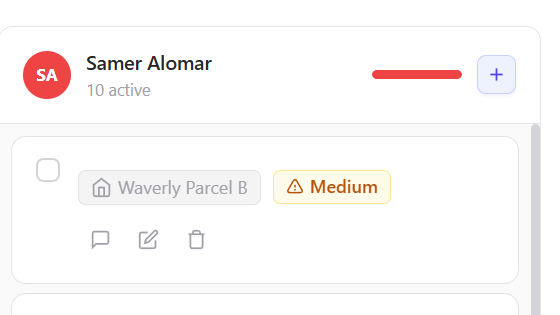
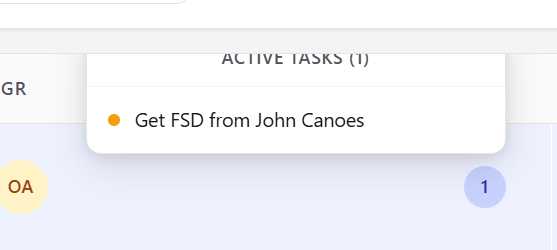
display tasks in projects list

diff --git a/src/components/ProjectsPageClient.tsx b/src/components/ProjectsPageClient.tsx
@@ -1,6 +1,7 @@
 "use client"
 
 import { useState, useMemo, useEffect, useRef, useCallback } from "react"
+import { createPortal } from "react-dom"
 import Link from "next/link"
 import { useRouter } from "next/navigation"
 import { setProjectArchivedAction } from "@/actions/projects"
@@ -24,6 +25,7 @@ interface Project {
   coFileNumbers: string
   dldReviewer: string
   userId: number
+  activeTasks?: { id: number; title: string; urgency: string | null }[]
 }
 
 interface User {
@@ -291,8 +293,8 @@ export function ProjectsPageClient({ projects, users, currentUser }: ProjectsPag
                   </span>
                 )}
               </th>
-              <th 
-                className="sortable-header" 
+              <th
+                className="sortable-header"
                 onClick={() => handleSort('milestone')}
                 style={{ cursor: 'pointer', userSelect: 'none' }}
               >
@@ -303,6 +305,7 @@ export function ProjectsPageClient({ projects, users, currentUser }: ProjectsPag
                   </span>
                 )}
               </th>
+              <th>TASKS</th>
               <th>OVERVIEW</th>
             </tr>
           </thead>
@@ -600,6 +603,7 @@ function ProjectRow({
           )
         })()}
       </td>
+      <TasksCell project={project} slideStyle={slideStyle} isDraggingRef={isDraggingRef} />
       <td className="comments row-slideable" style={slideStyle}>
         <div
           className={`archive-reveal-indicator${isArchiveReady ? " archive-reveal-ready" : ""}`}
@@ -618,5 +622,74 @@ function ProjectRow({
         />
       </td>
     </tr>
+  )
+}
+
+function TasksCell({
+  project,
+  slideStyle,
+  isDraggingRef,
+}: {
+  project: Project
+  slideStyle: React.CSSProperties
+  isDraggingRef: React.RefObject<boolean>
+}) {
+  const pillRef = useRef<HTMLAnchorElement>(null)
+  const [popover, setPopover] = useState<{ top: number; left: number } | null>(null)
+
+  const showPopover = useCallback(() => {
+    const el = pillRef.current
+    if (!el) return
+    const rect = el.getBoundingClientRect()
+    setPopover({ top: rect.top, left: rect.left + rect.width / 2 })
+  }, [])
+
+  const hidePopover = useCallback(() => setPopover(null), [])
+
+  const tasks = project.activeTasks
+  if (!tasks || tasks.length === 0) {
+    return (
+      <td className="active-tasks row-slideable" style={slideStyle}>
+        <span className="active-task-count-zero">0</span>
+      </td>
+    )
+  }
+
+  return (
+    <td className="active-tasks row-slideable" style={slideStyle}>
+      <div
+        className="active-tasks-wrapper"
+        onMouseEnter={showPopover}
+        onMouseLeave={hidePopover}
+      >
+        <Link
+          ref={pillRef}
+          href={`/projects/${project.id}#tasks`}
+          className="active-task-count"
+          onClick={(e) => isDraggingRef.current && e.preventDefault()}
+        >
+          {tasks.length}
+        </Link>
+        {popover && createPortal(
+          <div
+            className="active-tasks-popover"
+            style={{ top: popover.top, left: popover.left }}
+          >
+            <div className="active-tasks-popover-header">
+              Active tasks ({tasks.length})
+            </div>
+            <ul className="active-tasks-popover-list">
+              {tasks.map(task => (
+                <li key={task.id} className="active-tasks-popover-item">
+                  <span className={`active-tasks-popover-urgency ${task.urgency?.toLowerCase() || 'medium'}`} />
+                  <span className="active-tasks-popover-title">{task.title}</span>
+                </li>
+              ))}
+            </ul>
+          </div>,
+          document.body
+        )}
+      </div>
+    </td>
   )
 }

diff --git a/src/app/styles/projects.css b/src/app/styles/projects.css
@@ -233,6 +233,103 @@
   font-size: var(--font-size-xs);
 }
 
+/* Active tasks cell */
+.active-tasks {
+  text-align: center;
+  vertical-align: middle;
+  min-width: 50px;
+}
+
+.active-tasks-wrapper {
+  position: relative;
+  display: inline-block;
+}
+
+.active-task-count {
+  display: inline-flex;
+  align-items: center;
+  justify-content: center;
+  min-width: 28px;
+  height: 28px;
+  padding: 0 8px;
+  border-radius: var(--radius-full);
+  background: var(--primary-100);
+  color: var(--primary-700);
+  font-size: var(--font-size-xs);
+  font-weight: var(--font-weight-semibold);
+  text-decoration: none;
+  transition: background var(--transition);
+}
+.active-task-count:hover {
+  background: var(--primary-200);
+  color: var(--primary-800);
+}
+
+.active-task-count-zero {
+  color: var(--text-muted);
+  font-size: var(--font-size-xs);
+}
+
+/* Hover popover (portalled to body, fixed positioning) */
+.active-tasks-popover {
+  position: fixed;
+  z-index: 9999;
+  width: 280px;
+  max-height: 320px;
+  transform: translateY(calc(-100% - 10px));
+  background: var(--neutral-0);
+  border: 1px solid var(--neutral-200);
+  border-radius: var(--radius-lg);
+  box-shadow: 0 8px 24px rgba(0, 0, 0, 0.12), 0 2px 8px rgba(0, 0, 0, 0.08);
+  overflow: hidden;
+}
+
+.active-tasks-popover-header {
+  padding: 10px 14px;
+  font-size: var(--font-size-xs);
+  font-weight: var(--font-weight-semibold);
+  color: var(--text-secondary);
+  text-transform: uppercase;
+  letter-spacing: 0.03em;
+  border-bottom: 1px solid var(--neutral-100);
+}
+
+.active-tasks-popover-list {
+  list-style: none;
+  margin: 0;
+  padding: 6px 0;
+  overflow-y: auto;
+  max-height: 268px;
+}
+
+.active-tasks-popover-item {
+  display: flex;
+  align-items: center;
+  gap: 10px;
+  padding: 7px 14px;
+  font-size: var(--font-size-sm);
+  color: var(--text-primary);
+  line-height: 1.4;
+}
+
+.active-tasks-popover-urgency {
+  flex-shrink: 0;
+  width: 8px;
+  height: 8px;
+  border-radius: var(--radius-full);
+  background: var(--warning-500);
+}
+.active-tasks-popover-urgency.low { background: var(--success-500); }
+.active-tasks-popover-urgency.medium { background: var(--warning-500); }
+.active-tasks-popover-urgency.high { background: hsl(25, 95%, 45%); }
+.active-tasks-popover-urgency.critical { background: var(--error-500); }
+
+.active-tasks-popover-title {
+  overflow: hidden;
+  text-overflow: ellipsis;
+  white-space: nowrap;
+}
+
 /* MBA number cell */
 .mba-number {
   min-width: 80px;

diff --git a/src/app/projects/page.tsx b/src/app/projects/page.tsx
@@ -30,7 +30,8 @@ export default async function ProjectsPage() {
     ...project,
     client: project.clientRef?.name || 'No Client',
     clientId: project.clientRef?.id || null,
-    clientCompany: project.clientRef?.companyName || null
+    clientCompany: project.clientRef?.companyName || null,
+    activeTasks: project.tasks
   }))
 
   const activeProjects = projects.filter(p => !p.archived)
@@ -67,6 +68,7 @@ function ProjectsTableSkeleton() {
             <th>Co File #&apos;s</th>
             <th>P<br />MGR</th>
             <th>MILESTONE<br />DATE</th>
+            <th>TASKS</th>
             <th>OVERVIEW</th>
           </tr>
         </thead>
@@ -74,6 +76,7 @@ function ProjectsTableSkeleton() {
           {Array.from({ length: 5 }).map((_, i) => (
             <tr key={i}>
               <td><Skeleton /></td>
+              <td><Skeleton short /></td>
               <td><Skeleton short /></td>
               <td><Skeleton short /></td>
               <td><Skeleton short /></td>

diff --git a/src/db/projects.ts b/src/db/projects.ts
@@ -31,7 +31,7 @@ export async function getProjects({
     where.archived = false
   }
 
-  return prisma.project.findMany({ 
+  return prisma.project.findMany({
     where,
     include: {
       clientRef: true,
@@ -39,6 +39,11 @@ export async function getProjects({
         orderBy: {
           date: 'asc'
         }
+      },
+      tasks: {
+        where: { completed: false },
+        select: { id: true, title: true, urgency: true },
+        orderBy: { createdAt: 'desc' }
       }
     }
   })
